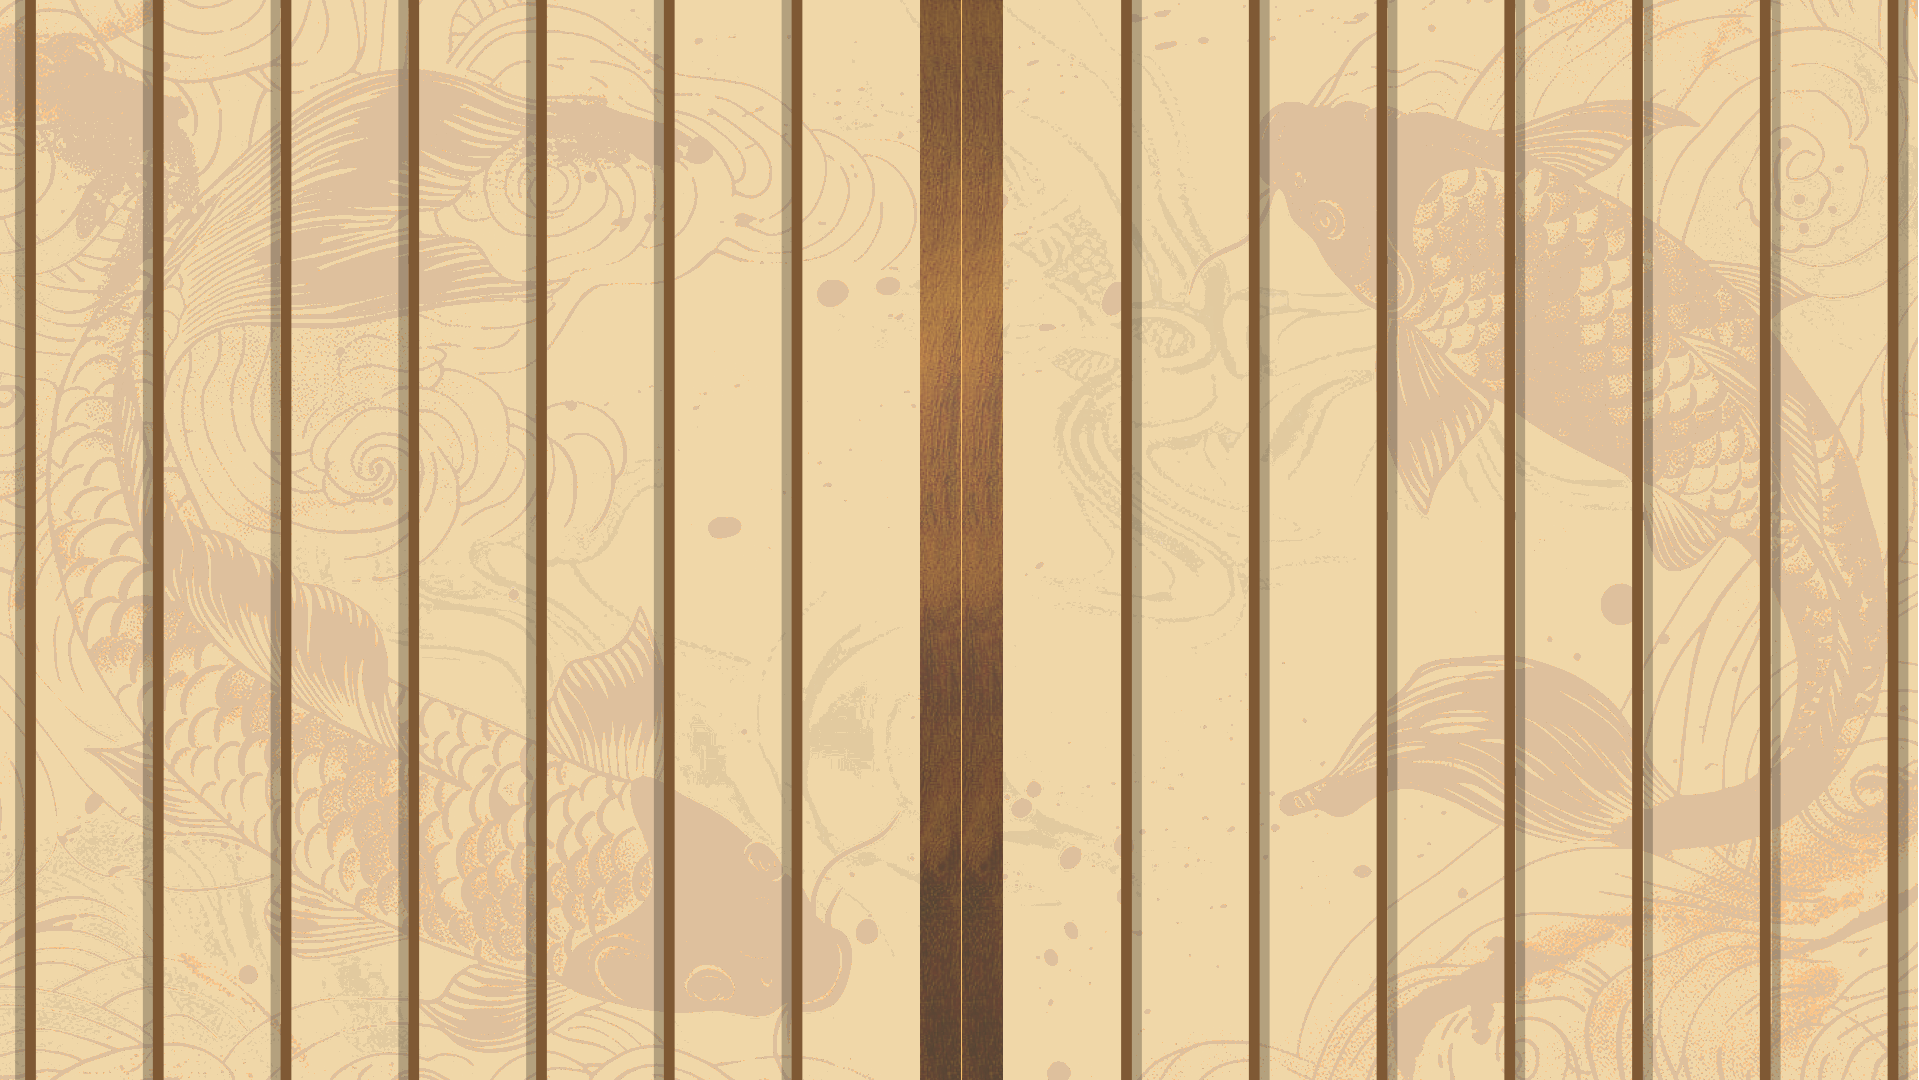
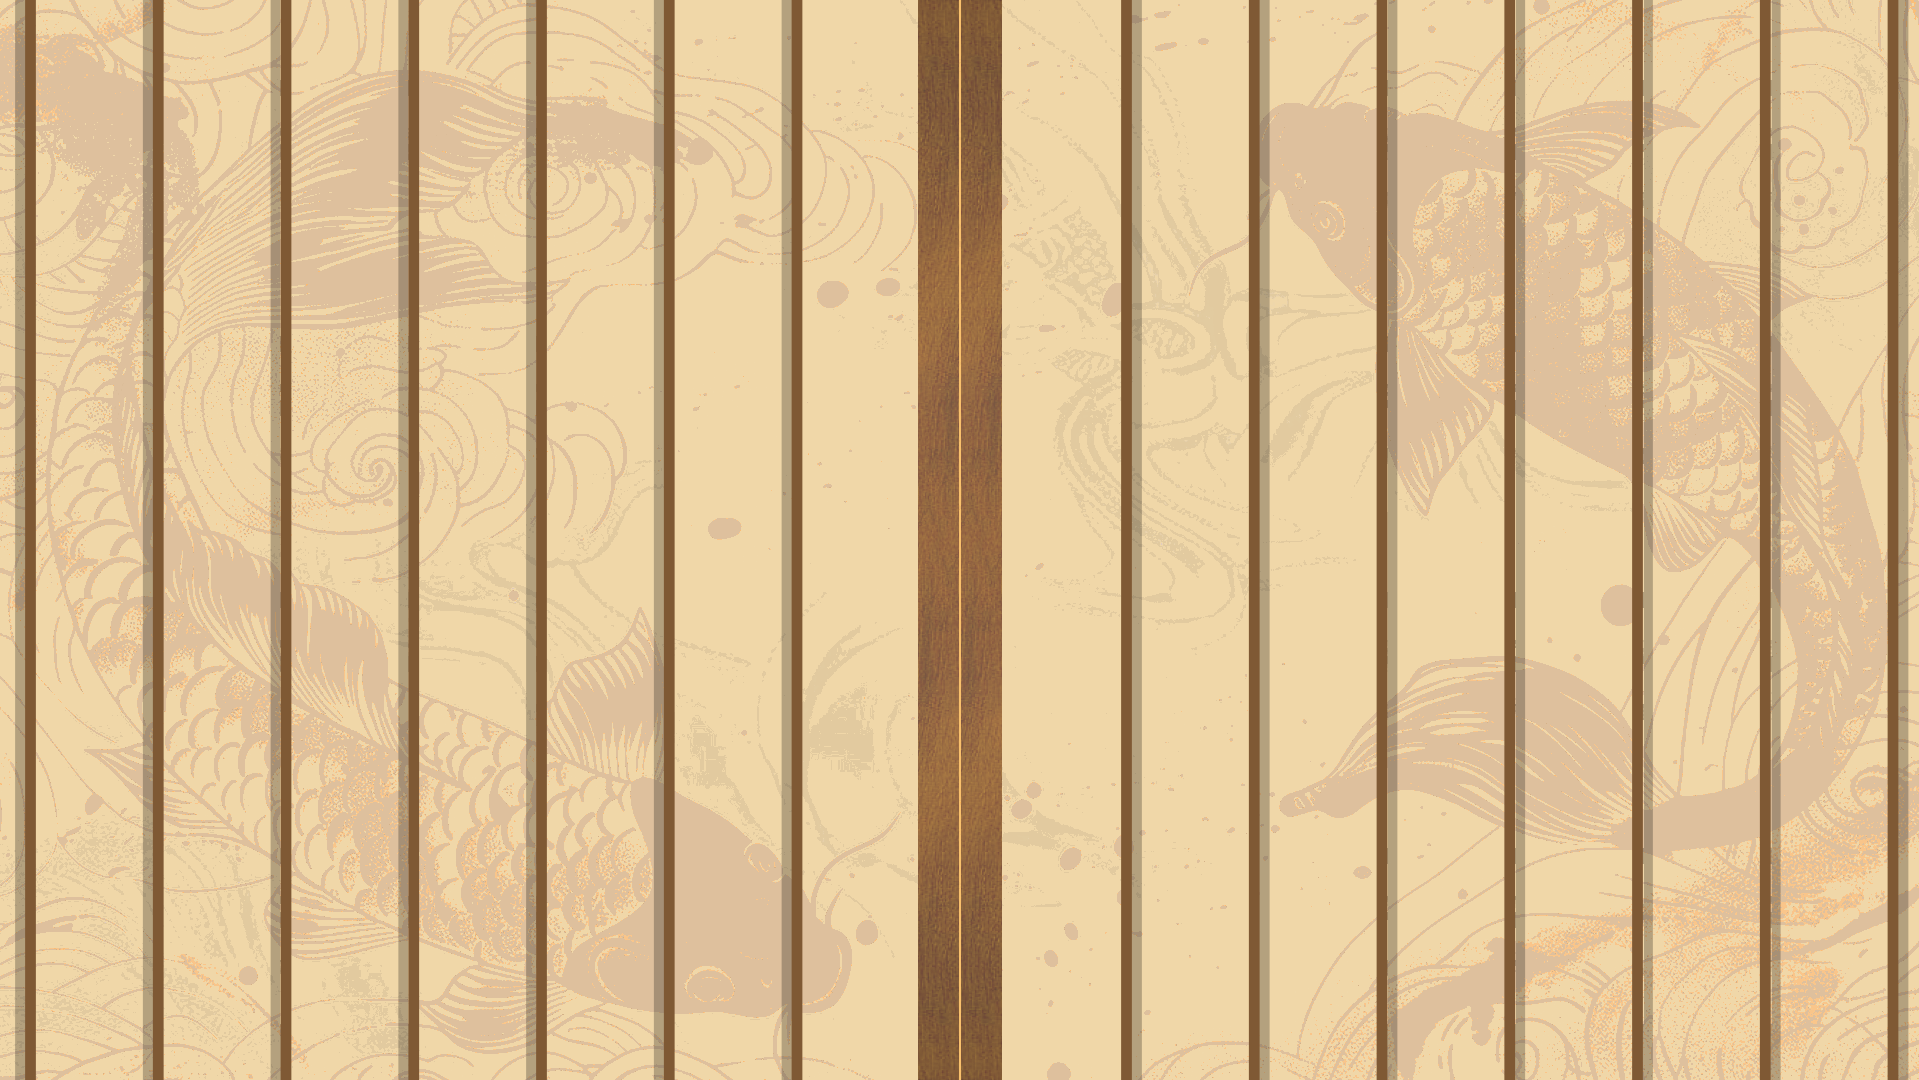
hanged cards to wooden bars

diff --git a/src/pages/contact/ContactPage.tsx b/src/pages/contact/ContactPage.tsx
@@ -17,19 +17,27 @@ export default function Contact() {
     const [horiBarDetails, setHoriBarDetails] = useState<HoriBarDetails>();
 
     useEffect(() => {
-        const handleResize = () => setIsMobile(window.innerWidth <= 900)
+        const handleResize = () => setIsMobile(window.innerWidth <= 900);
 
         window.addEventListener("resize", handleResize)
 
         return () => window.removeEventListener("resize", handleResize)
-    })
+    }, [])
 
     return (
         <div className={styles.contactPageWrapper}>
             <div className={styles.contactPageBg} >
                 {
                     Array(horiBarDetails?.numOfBars).fill(null).map((_, i) => 
-                        <div className={styles.horiBar} key={i} style={{top: `${i*(horiBarDetails?.barGap || 0) + (horiBarDetails?.firstBarPos || 0)}px`}} />
+                        <div 
+                            className={styles.horiBar} 
+                            key={i} 
+                            style={{
+                                top: `${i*(horiBarDetails?.barGap || 0) + (horiBarDetails?.firstBarPos || 0)}px`
+                            }} 
+                        >
+                            <div /><div /><div />
+                        </div>
                     )
                 }
             </div>

diff --git a/src/pages/contact/components/contactGallery/ContactGallery.tsx b/src/pages/contact/components/contactGallery/ContactGallery.tsx
@@ -28,17 +28,16 @@ export default function ContactGallery({ setHoriBarDetails }: { setHoriBarDetail
             if (!secondRowItem) return;
             const secondRowRelPos = secondRowItem.getBoundingClientRect().top
 
-            const barGapThreshold = 100;
+            // const barGapThreshold = 100;
             let barGap = Math.round(secondRowRelPos - firstRowRelPos);
-            if (barGap > barGapThreshold) barGap = barGap / 2
+            // if (barGap > barGapThreshold) 
+            barGap = barGap / Math.round(barGap / 150);
 
             const firstRowAbsPos = firstRowRelPos + (document.scrollingElement?.scrollTop || 0);
             
             const firstBarPos = Math.round(firstRowAbsPos % barGap);
-            const numOfBars = Math.round((document.scrollingElement?.scrollHeight || 0)/barGap);
+            const numOfBars = Math.round((document.body.clientHeight || 0)/barGap);
 
-            console.log(numOfBars, firstBarPos, barGap, contactItems)
-            console.log(barGap, firstRowAbsPos, firstBarPos, document.scrollingElement?.scrollHeight)
             if (setHoriBarDetails) setHoriBarDetails({numOfBars, firstBarPos, barGap})
         }
 

diff --git a/src/pages/contact/Contact.module.scss b/src/pages/contact/Contact.module.scss
@@ -1,11 +1,11 @@
 // body {position: static;}
-@use "sass:math";
-
-$barThickness: calc(10*100vw/1920);
 
 .contactPageWrapper {
     // height: 100vh;
     // overflow-y: scroll;
+
+    --bar-thickness: calc(10*100vw/1920);
+    @media (max-width: 900px) {--bar-thickness: calc(6*100vw/393)}
 
     &::-webkit-scrollbar {
         display: none;
@@ -70,10 +70,18 @@ $barThickness: calc(10*100vw/1920);
             position: absolute;
             left: 0px;
             width: 100%;
-            height: $barThickness;
-            background-color: #7F5934;
+            height: var(--bar-thickness);
+            // background-color: #7F5934;
             z-index: inherit;
-            box-shadow: 0px calc($barThickness - 1px) rgba(0, 0, 0, 0.215);
+
+            display: grid;
+            grid-template-columns: 1fr calc(83*100vw/1919) 1fr;
+
+            & :nth-child(odd) {
+                background-color: #7F5934;
+                box-shadow: 0px calc(var(--bar-thickness) - 1px) rgba(0, 0, 0, 0.215);
+            }
+            div {height: 100%;}
         }
     }
 }

diff --git a/src/pages/contact/components/contactGallery/ContactGallery.module.scss b/src/pages/contact/components/contactGallery/ContactGallery.module.scss
@@ -7,6 +7,7 @@
 
 .contactContent {
     position: relative;
+    height: inherit;
 
     .contactHeading {
         position: relative;
